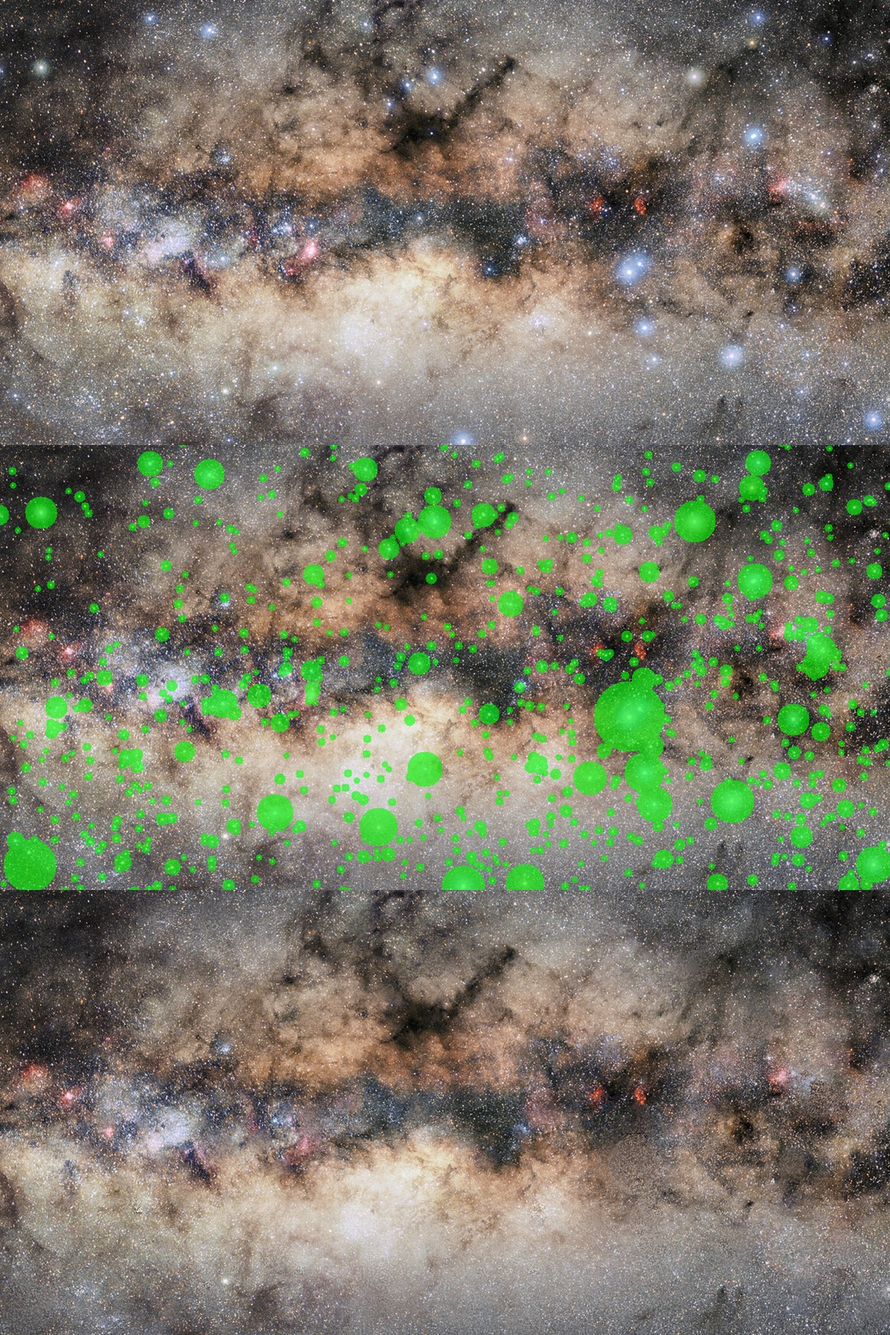
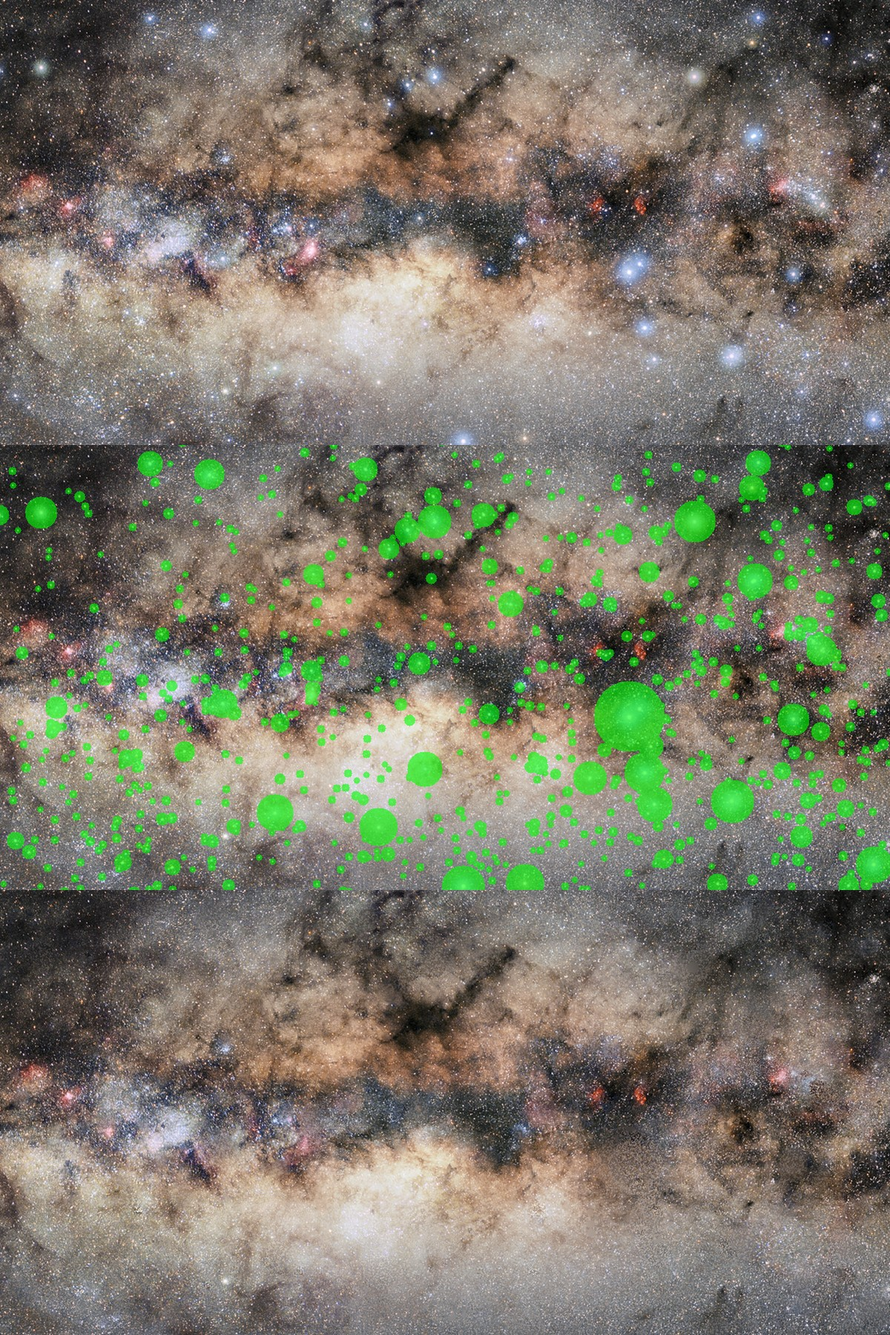
M1.4d: rebuild sky background with corrected catalogue; bundle in builds
- Re-fetched the destar inputs via the documented scripts (new: download_background.sh raw,
  download_stars.sh hip with the exact VizieR request) and re-ran tools/m14a_destar.py on the
  corrected stars.json (#37): the 118 holes at mirrored V<4.5 positions are gone, and 474/475
  V<6 catalogue stars sit on a removed photo star. make sky-model regenerated (dxy 0.0050).
- make sky-assets / sky-inputs / destar / sky-verify; data/sky/SHA256SUMS pins inputs and the
  two textures (destar and sky-model both verified byte-identical across two runs).
- Export: data/raw is .gdignore'd and Godot's export skips it, so make sky-bundle stages the
  pinned textures as sky_bundle/*.png.bin (not imported) and SkyBackground falls back to them.
  The exported app renders byte-identically to the source run.
- Renders in docs/m1.4d; docs/m1.4a destar crops regenerated with the corrected mask.

Claude-Session: https://claude.ai/code/session_01Dvti2W94QfXDcYLoyzr7n3

diff --git a/.claude/skills/starmap-manager/resources/data_sources.md b/.claude/skills/starmap-manager/resources/data_sources.md
@@ -70,14 +70,36 @@ criteria = {
 }
 ```
 
-### 3. Hipparcos (Alternative)
+### 3. Hipparcos V < 7.5 (sky-background star removal, M1.4)
 
-**Source**: ESA / Gaia Sky
-**URL**: https://gaiasky.space/resources/datasets/
-**Size**: 7.7 MB
-**Stars**: 117,950 bright stars
+**Used by**: `tools/m14a_destar.py` (the D-10 destar step of `make sky-assets`),
+to decide which panorama stars are catalogue stars and get removed.
+**Source**: VizieR `I/239/hip_main` (Hipparcos 1997; V is Johnson `Vmag`).
+HIP2 (`I/311`) has no Johnson V, which is why the destar list reads hip_main;
+the M1.2d bright *tier* is a separate product that joins I/311 to I/239.
+**Script**: `scripts/download_stars.sh hip` -> `data/raw/hip_v7.tsv`
+**Exact request** (ASU-TSV; `_Glon`/`_Glat` are galactic l, b computed by VizieR at J2000):
 
-Good coverage of bright stars visible from Earth. Less accurate than Gaia but historically significant.
+```
+https://vizier.cds.unistra.fr/viz-bin/asu-tsv?-source=I/239/hip_main&-out=HIP,Vmag,_Glon,_Glat,B-V,Plx&Vmag=%3C7.5&-out.max=unlimited
+```
+
+- 25,503 data rows, columns `HIP Vmag _Glon _Glat B-V Plx`; the file also echoes the request in its `#INFO request=` header.
+- VizieR writes the query date into the `#` header, so the whole-file sha256 changes on every download.
+  The pin is on the data rows: `grep -v '^#' data/raw/hip_v7.tsv | shasum -a 256` =
[1 lines of base64/hex data omitted]
+
+## Galactic background
+
+### NOIRLab noirlab2430b (D-10)
+
+**Source**: https://noirlab.edu/public/images/noirlab2430b/ (E. Slawik, CC BY 4.0)
+**Pipeline input**: `scripts/download_background.sh raw` keeps the untouched 10k TIF at
+`data/raw/background/noirlab_10k.tif` (95,723,018 B, sha256
[1 lines of base64/hex data omitted]
+`https://noirlab.edu/public/media/archives/images/publicationtiff10k/noirlab2430b.tif`.
+The `4k`/`10k` modes give JPEG previews under `data/starmap/background/` and are not pipeline inputs.
+All pins for the sky pipeline (inputs and generated textures) live in `data/sky/SHA256SUMS`; `make sky-verify` checks them.
 
 ## Exoplanet Data
 

diff --git a/.claude/skills/starmap-manager/SKILL.md b/.claude/skills/starmap-manager/SKILL.md
@@ -75,6 +75,22 @@ Download NOIRLab all-sky panorama (noirlab2430b) for galactic background.
 .claude/skills/starmap-manager/scripts/download_background.sh 10k
 ```
 
+### Sky background textures (M1.4, D-10): `make sky-assets`
+
+The in-game Milky Way is two generated 10000×5000 PNGs in `data/raw/background/`
+(gitignored): `noirlab_10k_destarred.png` and `noirlab_10k_skymodel.png`.
+`make sky-assets` rebuilds them byte for byte:
+
+1. `make sky-inputs`: `download_background.sh raw` (NOIRLab TIF), `download_stars.sh hip`
+   (exact VizieR request in `resources/data_sources.md`), `download_stars.sh medium` +
+   `tools/extract.py gcns`; skipped when present, then pin-checked.
+2. `make destar`: catalogue-matched stars out of the photo (HIP V<7.5, GCNS, `data/starmap/stars.json`).
+3. `make sky-model`: AILANG per-texel colour-temperature fit.
+4. `make sky-verify`: every input and output against `data/sky/SHA256SUMS`.
+
+`make export-macos` packs both textures into the .pck (`include_filter` `data/*`). Without
+them the sky renders black.
+
 ### `scripts/process_stars.sh`
 Convert downloaded star catalogs to game-ready format.
 

diff --git a/changelogs/unreleased/2026-10-02-sky-background-rebuild.md b/changelogs/unreleased/2026-10-02-sky-background-rebuild.md
@@ -1,0 +1,15 @@
+### Fixed
+
+- Sky background rebuilt with the corrected `stars.json` (M1.4d, after #37): the destar step no
+  longer removes photo stars at the mirrored catalogue positions (118 V<4.5 discs, 0.32% of the
+  panorama, are back as photo pixels); every V<6 `stars.json` star is drawn where its photo star
+  was removed (474/475).
+- Exported builds now carry the sky textures (`make export-macos` stages them via `make sky-bundle`);
+  before, every build rendered a black sky.
+
+### Added
+
+- `make sky-assets` (`sky-inputs` -> `destar` -> `sky-model` -> `sky-verify`): rebuilds the two
+  generated textures byte for byte from pinned downloads; `data/sky/SHA256SUMS` pins inputs and textures.
+- `download_background.sh raw` (the untouched NOIRLab TIF) and `download_stars.sh hip` (the exact
+  VizieR request behind `data/raw/hip_v7.tsv`, pinned on its data rows).
